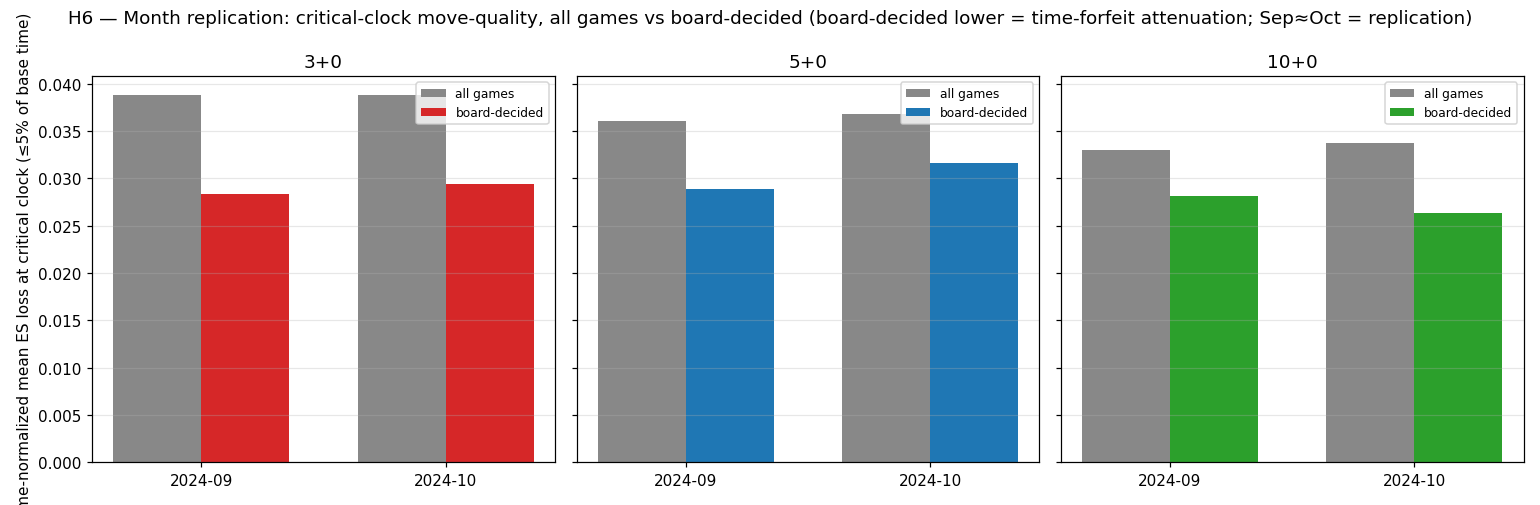
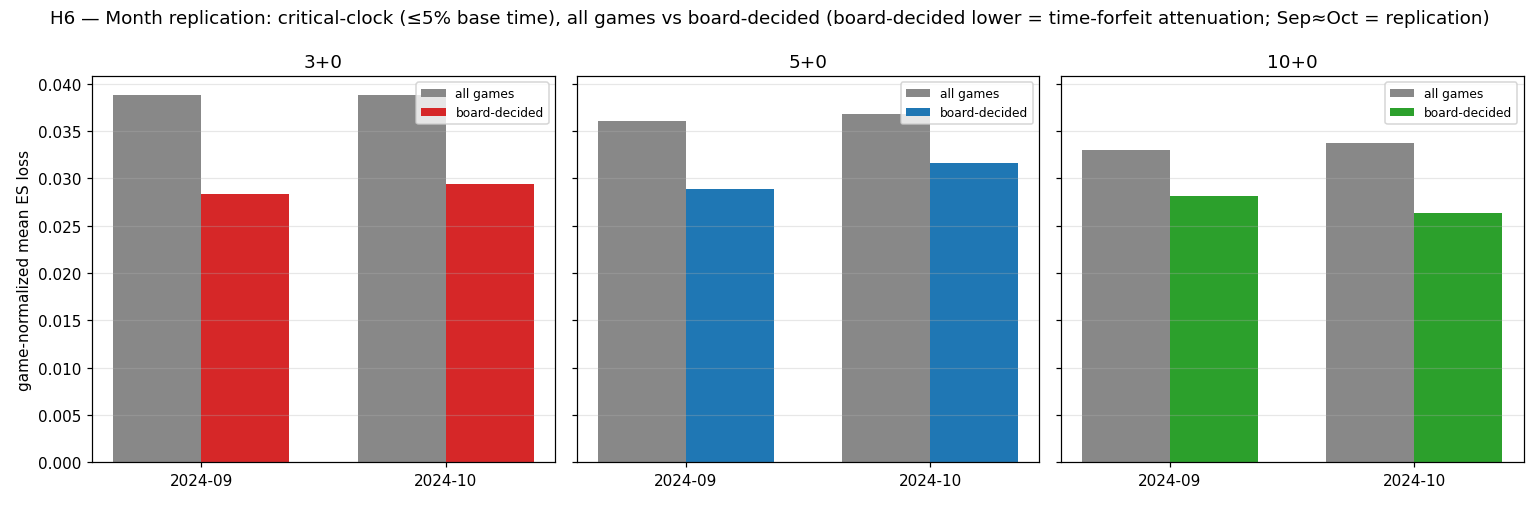
Ticket 17.0D: polish public benchmark release

diff --git a/src/chess_mhsuc/benchmark_figures.py b/src/chess_mhsuc/benchmark_figures.py
@@ -379,8 +379,11 @@ def render_headline_figures(head, game_tbl, fig_dir: Path):
             ax.bar(x + (i - 0.5) * wd, vals_, wd, label=lab, color=col)
         ax.set_xticks(x); ax.set_xticklabels([_MONTH_LABEL[m] for m in MONTH_ORDER])
         ax.set_title(c); ax.grid(alpha=.3, axis="y"); ax.legend(fontsize=8)
-    axes[0].set_ylabel("game-normalized mean ES loss at critical clock (≤5% of base time)")
-    fig.suptitle("H6 — Month replication: critical-clock move-quality, all games vs board-decided "
+    # Short y-label so tight_layout reserves enough vertical room on this short figure (the long
+    # original label overflowed the axis height and clipped "game-" at the bottom); the critical-clock
+    # ≤5% threshold is carried by the suptitle and the report caption. Estimand unchanged.
+    axes[0].set_ylabel("game-normalized mean ES loss")
+    fig.suptitle("H6 — Month replication: critical-clock (≤5% base time), all games vs board-decided "
                  "(board-decided lower = time-forfeit attenuation; Sep≈Oct = replication)")
     save(fig, "H6_month_replication_summary")
     return inv

diff --git a/reports/phase_reports/phase_17_0d_final_public_polish_github_rendering_release_tag_audit.md b/reports/phase_reports/phase_17_0d_final_public_polish_github_rendering_release_tag_audit.md
@@ -1,0 +1,120 @@
+# Phase 17.0D — Final Public Polish, GitHub Rendering, and Release Tag Audit
+
+## 1. Executive verdict
+
+**The repository is ready for public use.** The single cosmetic defect carried over from 17.0C — the
+H6 y-axis label clipping — is fixed deterministically, touching only `benchmark_figures.py` and
+regenerating only `H6_month_replication_summary.png` (H1–H5 byte-identical, `count_tables.md`
+unchanged). The plotted estimand is unchanged. Tests remain green (26 targeted / 1,951 full, 3
+pre-existing warnings). The GitHub remote is reachable and the repository URL matches `CITATION.cff`.
+No framing change, no new research, no data/model/Stockfish activity. One operational reminder: the H6
+fix must be committed and pushed for GitHub to render the corrected figure (it currently shows the
+pre-fix H6). Nothing staged, nothing committed.
+
+## 2. Commit base and working tree
+
+- Start: clean working tree; HEAD = `c3483bf Ticket 17.0C: verify public release readiness` (17.0C
+  committed and, per §6, pushed). Audit proceeded.
+
+## 3. Model/framing clarification
+
+chess-MHSUC does **not** use a literal decision-tree model. The final public package uses
+**game-normalized descriptive benchmark figures** plus previously completed **controlled statistical
+comparisons**. The main public contribution is a **reproducible replication/benchmark study** that
+separates the clock-related final-outcome signal into a **mechanical time-forfeit channel** and a
+**board-decided move-quality channel**. It is **not** described as a decision-tree model, a novel ML
+model, a state-of-the-art chess predictor, a causal study, or a proof that low time causes worse
+reasoning. Framing unchanged from 17.0A–17.0C.
+
+## 4. H6 cosmetic fix
+
+Root cause: the H6 y-axis label (`"game-normalized mean ES loss at critical clock (≤5% of base
+time)"`) is rotated 90°, so its **length runs vertically**; on the short (4.6-inch-tall) figure it
+overflowed the axis height and `tight_layout` clipped the start of the text ("game-") at the bottom.
+
+Fix (in `src/chess_mhsuc/benchmark_figures.py`, H6 block only):
+- Shortened the y-axis label to `"game-normalized mean ES loss"` (fits the axis height).
+- Moved the precise threshold into the suptitle, which now reads
+  `"H6 — Month replication: critical-clock (≤5% base time), all games vs board-decided (board-decided
+  lower = time-forfeit attenuation; Sep≈Oct = replication)"` — kept to ~the original (proven-fitting)
+  length by dropping the redundant word "move-quality", so the suptitle does not overflow horizontally.
+
+The estimand is unchanged: game-normalized expected-score loss at critical clock, all-games vs
+board-decided, by control and month. No scientific content or values changed. No regression test was
+added: the change is a string-only cosmetic edit, no test asserts the H6 label/title text, and a
+literal label-string assertion would be brittle without detecting actual clipping.
+
+## 5. Figure regeneration and visual inspection
+
+Regenerated via the existing CLI over the six existing dense Parquets (read-only; no extraction, no
+Stockfish). Result: **only `H6_month_replication_summary.png` changed.** H1–H5 PNGs are
+byte-identical (sha256 match before/after); `count_tables.md` is byte-identical
+(`0f392a38…`). `git status reports/figures/benchmark` shows only H6 modified.
+
+## 6. GitHub rendering audit
+
+- `git remote get-url origin` = `https://github.com/malachiwang06-lgtm/chess-MHSUC.git`.
+- `git ls-remote origin refs/heads/main` = `c3483bf…` = **local HEAD** → the remote is reachable and
+  17.0C is pushed.
+- Local Markdown/link/figure/CFF audit (carried from 17.0C, re-confirmed): all relative links resolve,
+  all referenced figures exist, no private local paths, no oversized files, LICENSE/CITATION valid.
+- **GitHub rendering not browser-verified** (not fabricated): I did not open the rendered GitHub page.
+  Because the pushed commit equals local HEAD, GitHub currently displays the **pre-17.0D** README and
+  the **pre-fix (clipped) H6**. After committing and pushing 17.0D, the corrected H6 will render.
+
+## 7. Repository URL and citation audit
+
+`CITATION.cff` `repository-code` = `https://github.com/malachiwang06-lgtm/chess-MHSUC`, which matches
+the configured `origin` remote exactly. The only GitHub URL in the public docs is this CITATION field
+(README/LICENSE reference NOTICE/LICENSE relatively, not a hardcoded GitHub URL). **URL is correct for
+the present remote**; it should be updated only if Malachi later changes his GitHub username and the
+remote. No change made in this ticket.
+
+## 8. Test-count consistency
+
+Public docs (`README.md`, `reports/benchmark_report.md`) state "~1,900+ tests" — conservative and
+correct against the actual full-suite count of **1,951**. Left as "~1,900+" (acceptable lower-bound
+phrasing; not changed). No inconsistency.
+
+## 9. Test results
+
+- Targeted: `pytest tests/test_benchmark_figures.py -q` → **26 passed** (0.33s).
+- Full: `pytest -q` → **1,951 passed, 3 warnings** (104.50s). The 3 warnings are the pre-existing
+  sklearn `y_pred contains classes not in y_true` notices from
+  `test_eval_conditioned_modeling.py` / `test_baselines.py` — not new, not from the benchmark package.
+
+## 10. Forbidden artifact and size checks
+
+- No raw data, dense Parquets, model/checkpoint files, or caches staged or untracked-and-unignored;
+  `data/` clean. No third-party prior-art clones inside the repo (they live under
+  `/Users/malachiwang/chess-prior-art/`, outside the repository).
+- No forbidden file types tracked (`*.parquet` / `*.pgn.zst` / `*.onnx` / `*.pt` / `*.pth`); the only
+  tracked data-like file remains the allowed tiny synthetic fixture `tests/fixtures/tiny_clock_eval_game.pgn`.
+- Largest tracked file is `EXPERIMENT_LOG.md` (208 KB); benchmark figures total **1.1 MB**
+  (H6 now 41 KB, was 48 KB). Sizes remain reasonable.
+
+## 11. Defects found
+
+- **Fixed:** H6 y-axis label clipping (the only 17.0C-recorded cosmetic defect).
+- **No new defects.** No blocking issues.
+
+## 12. Required fixes before public use
+
+**None remaining.** (Operational, not a code fix: commit + push 17.0D so GitHub renders the corrected
+H6 and updated governance.)
+
+## 13. Optional future polish
+
+1. Confirm the rendered GitHub page in a browser after pushing 17.0D (figures display, README renders,
+   CITATION/LICENSE recognized).
+2. Consider a tagged release (e.g., `v1.0`) for a stable citation anchor.
+3. Optionally tighten "~1,900+ tests" to the exact "1,951 tests" once it stabilizes (current phrasing
+   is fine).
+4. Update `CITATION.cff` / remote only if the GitHub username changes.
+
+## 14. Final public-use decision
+
+**READY FOR PUBLIC USE.** The cosmetic H6 clipping is resolved with a minimal, deterministic,
+estimand-preserving change; all other figures and aggregation counts are unchanged; tests pass; the
+remote URL is correct and reachable. The package is suitable for GitHub, LinkedIn, resume, and
+outreach once 17.0D is committed and pushed.

diff --git a/EXPERIMENT_LOG.md b/EXPERIMENT_LOG.md
@@ -3734,3 +3734,46 @@ Files changed (17.0C): ROADMAP.md, EXPERIMENT_LOG.md, reports/phase_reports/phas
 readiness_external_reader_qa_audit.md. Nothing staged, nothing committed.
 
 Project status: PUBLIC BENCHMARK PACKAGE COMPLETE — RELEASE-READY (17.0C verified); no active next ticket.
+
+## EXP-063 — Final Public Polish, GitHub Rendering, and Release Tag Audit (Ticket 17.0D)
+
+Small public-release polish. Fixed the one cosmetic defect from 17.0C (H6 y-axis label clipping). No
+framing change, no research, no Stockfish/extraction/refit, no data/model changes. Verdict: **READY FOR
+PUBLIC USE.**
+
+- Commit base: clean tree, HEAD = c3483bf (17.0C; pushed — `git ls-remote origin` HEAD == local HEAD).
+- H6 fix: root cause = long rotated y-label overflowed the short (4.6in) axis height, so tight_layout
+  clipped "game-" at the bottom. Fix in H6 block of benchmark_figures.py only: y-label shortened to
+  "game-normalized mean ES loss"; "(≤5% base time)" moved into the suptitle (dropped redundant
+  "move-quality" so the suptitle stays at the proven-fitting length). Estimand unchanged (game-normalized
+  ES loss, critical-clock all-games vs board-decided, control×month); no values changed. Regenerated via
+  CLI over the 6 existing dense Parquets (read-only, no Stockfish/extraction): **only H6 PNG changed;
+  H1–H5 byte-identical (sha256); count_tables.md byte-identical (0f392a38…).** No regression test added
+  (string-only cosmetic edit; no test asserts the label/title; literal label assertions are brittle).
+  Visual inspection: y-label and suptitle both fully readable, bars identical (board-decided below
+  all-games both months).
+- GitHub rendering: remote origin = https://github.com/malachiwang06-lgtm/chess-MHSUC.git, reachable;
+  `git ls-remote origin refs/heads/main` = local HEAD → 17.0C pushed. NOT browser-verified (not
+  fabricated); GitHub currently renders the pre-fix H6 until 17.0D is pushed. Local link/figure/CFF audit
+  (from 17.0C) re-confirmed.
+- Repository URL: CITATION.cff repository-code matches the origin remote exactly; correct for the present
+  remote; update only if the GitHub username changes. Only public-doc GitHub URL is the CITATION field.
+- Test-count consistency: public docs say "~1,900+ tests" (conservative, correct vs actual 1,951); left
+  as-is.
+- Tests: targeted 26 passed (0.33s); full **1,951 passed, 3 warnings** (104.50s) — same 3 pre-existing
+  sklearn y_pred notices, not new, not from the benchmark package.
+- Forbidden artifacts/size: no raw data / Parquet / model / cache / prior-art-clone staged or
+  untracked-unignored; data/ clean; no forbidden file types tracked (only allowed tiny
+  tests/fixtures/tiny_clock_eval_game.pgn); largest tracked file EXPERIMENT_LOG.md 208KB; benchmark figs
+  1.1MB (H6 41KB, was 48KB).
+- Defects: H6 clipping FIXED; no new defects; 0 blocking. Required fixes before public use: none (commit +
+  push 17.0D is the only operational step). Optional: browser-verify render post-push; tag v1.0; tighten
+  test count; update URL only on username change.
+- **Final public-use decision: READY.**
+
+Files changed (17.0D): src/chess_mhsuc/benchmark_figures.py, reports/figures/benchmark/
+H6_month_replication_summary.png, ROADMAP.md, EXPERIMENT_LOG.md, reports/phase_reports/
+phase_17_0d_final_public_polish_github_rendering_release_tag_audit.md. Nothing staged, nothing committed.
+
+Project status: PUBLIC BENCHMARK PACKAGE COMPLETE — READY FOR PUBLIC USE (17.0C verified, 17.0D
+polished); no active next ticket.

diff --git a/ROADMAP.md b/ROADMAP.md
@@ -696,11 +696,30 @@ clock-residual moderation (11.0A kill condition not triggered).
   release. Optional polish: confirm GitHub URL resolves before announcement; optionally state exact test count.
   Changed ONLY ROADMAP + EXPERIMENT_LOG + this report; source/tests/README/figures/data/PREREGISTRATION
   UNCHANGED. EXP-062. See `reports/phase_reports/phase_17_0c_public_release_readiness_external_reader_qa_audit.md`.
-- **Project status: PUBLIC BENCHMARK PACKAGE COMPLETE — RELEASE-READY (17.0C verified).** No active next
-  ticket. **DEFERRED (optional, only if Malachi revives): 16.3A increment audit; Think-Time / Flagging
-  Diagnostic; 15.5D sharpness; 1+0 bullet; increment-rapid; a standalone preprint.** **Preserved fallbacks:
-  14.2E; 14.3B; 16.0A snapshot.** **PERMANENTLY PROHIBITED in the package: broad novelty/first/unique/SOTA
-  claims; causal claims; new Stockfish/extraction/modeling without explicit approval.**
+- **17.0D complete (Final Public Polish, GitHub Rendering & Release Tag Audit — doc + 1 cosmetic figure fix):**
+  **VERDICT = READY FOR PUBLIC USE.** Fixed the sole 17.0C cosmetic defect: H6 y-axis label clipping. Root
+  cause = long rotated y-label overflowed the short (4.6in) axis height → `tight_layout` clipped "game-".
+  FIX (H6 block of `benchmark_figures.py` only): shortened y-label to "game-normalized mean ES loss" and moved
+  the "(≤5% base time)" threshold into the suptitle (dropped redundant "move-quality" to keep suptitle at the
+  proven-fitting length). Estimand UNCHANGED (game-normalized ES loss, critical-clock all-games vs
+  board-decided, by control×month); no values changed. Regenerated via CLI over the 6 existing dense Parquets
+  (read-only, no Stockfish/extraction): **only H6 PNG changed; H1–H5 byte-identical; count_tables.md
+  byte-identical.** No regression test added (string-only cosmetic edit; no test asserts H6 label/title; literal
+  label assertions are brittle). Tests **26 targeted / 1,951 full** (3 pre-existing sklearn warnings). GitHub:
+  remote `origin = https://github.com/malachiwang06-lgtm/chess-MHSUC.git` reachable, `git ls-remote` HEAD =
+  local HEAD (17.0C pushed); URL matches CITATION.cff. Rendering NOT browser-verified (not fabricated) — GitHub
+  currently shows pre-fix H6 until 17.0D is pushed. No forbidden artifacts; largest tracked file 208KB doc,
+  benchmark figs 1.1MB. Framing unchanged (descriptive replication/benchmark; NOT a decision-tree/novel/causal/
+  SOTA model). Changed ONLY benchmark_figures.py + H6 PNG + ROADMAP + EXPERIMENT_LOG + this report;
+  README/LICENSE/NOTICE/CITATION/benchmark_report/appendix/H1–H5/data/PREREGISTRATION UNCHANGED. EXP-063. See
+  `reports/phase_reports/phase_17_0d_final_public_polish_github_rendering_release_tag_audit.md`. Optional future:
+  browser-verify render after push; tag a v1.0 release; tighten "~1,900+"→"1,951"; update URL only if username
+  changes.
+- **Project status: PUBLIC BENCHMARK PACKAGE COMPLETE — READY FOR PUBLIC USE (17.0C verified, 17.0D polished).**
+  No active next ticket. **DEFERRED (optional, only if Malachi revives): 16.3A increment audit; Think-Time /
+  Flagging Diagnostic; 15.5D sharpness; 1+0 bullet; increment-rapid; a standalone preprint.** **Preserved
+  fallbacks: 14.2E; 14.3B; 16.0A snapshot.** **PERMANENTLY PROHIBITED in the package: broad
+  novelty/first/unique/SOTA claims; causal claims; new Stockfish/extraction/modeling without explicit approval.**
 
 ## Roadmap Recovery Note (2026-06-15, Ticket 15.2B)
 
